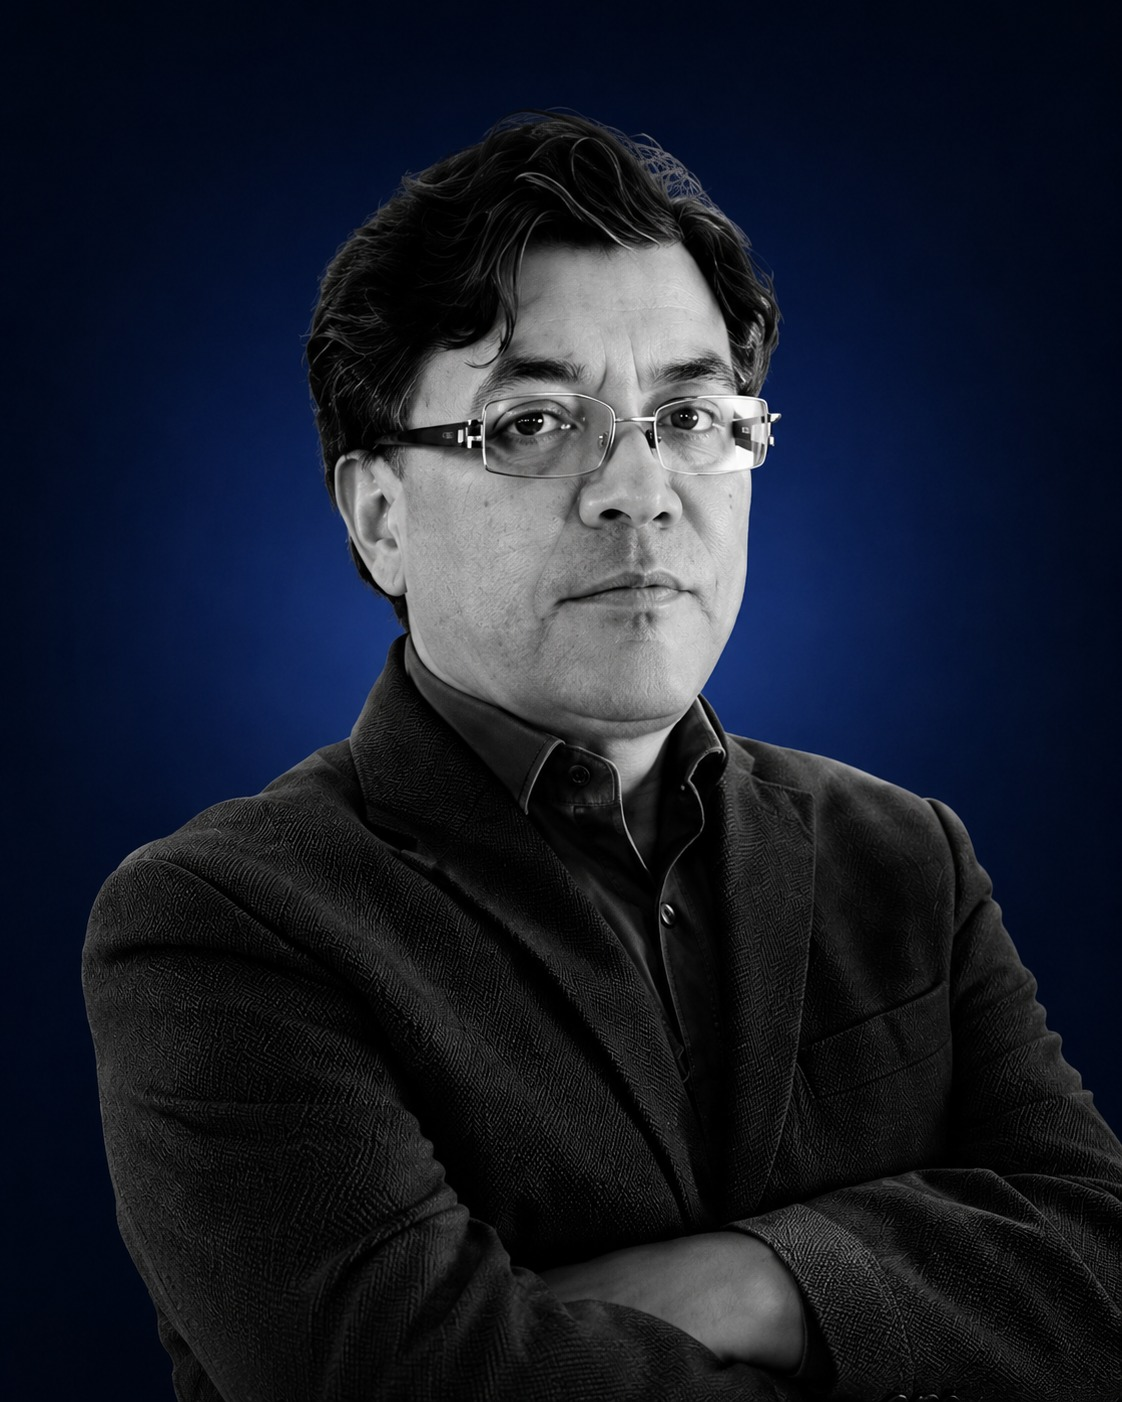
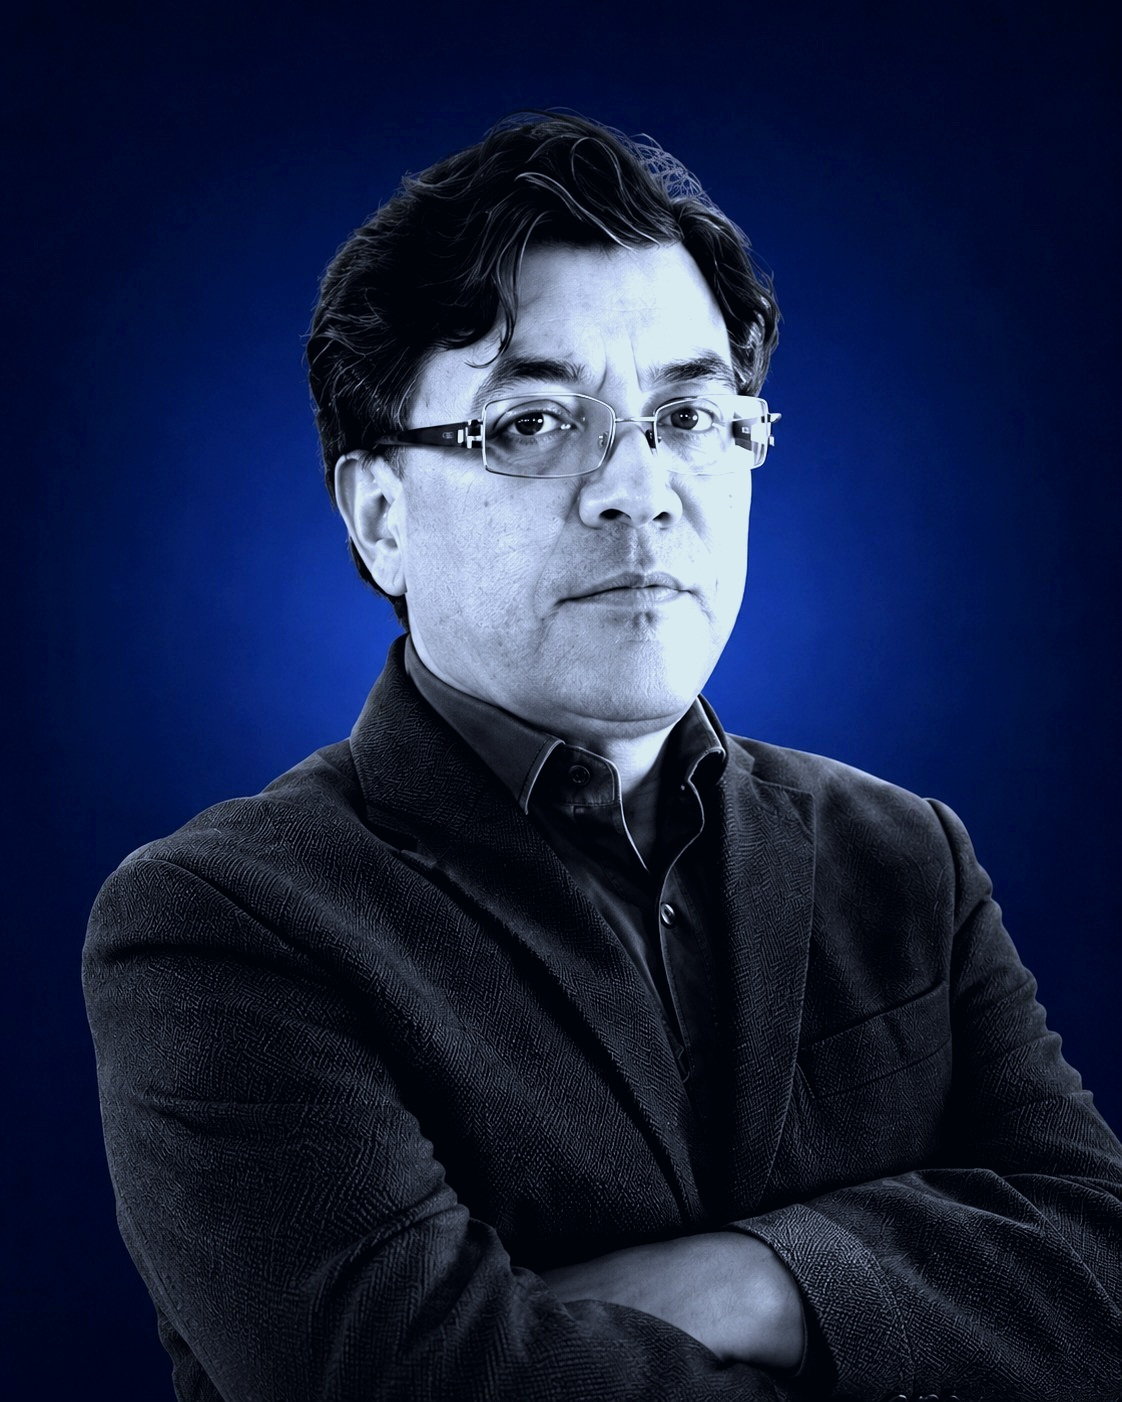
Retoque azul y ajuste compacto en fotos de Nosotros

diff --git a/src/pages/About.css b/src/pages/About.css
@@ -1,5 +1,8 @@
 .about-page .team-grid {
-  gap: 24px;
+  max-width: 1120px;
+  margin-inline: auto;
+  grid-template-columns: repeat(4, minmax(0, 1fr));
+  gap: 18px;
 }
 
 .about-page .team-card {
@@ -9,7 +12,7 @@
   flex-direction: column;
   overflow: hidden;
   border-color: rgba(148, 242, 255, 0.2);
-  border-radius: 16px;
+  border-radius: 14px;
   background:
     radial-gradient(circle at 50% 0%, rgba(148, 242, 255, 0.12), transparent 32%),
     linear-gradient(145deg, rgba(20, 35, 56, 0.92), rgba(7, 17, 31, 0.78));
@@ -18,30 +21,31 @@
 .about-page .team-card .team-portrait {
   display: block;
   width: 100%;
-  aspect-ratio: 4 / 5;
+  aspect-ratio: 4 / 4.75;
   height: auto;
   object-fit: cover;
   object-position: center top;
   border-bottom: 1px solid rgba(148, 242, 255, 0.18);
-  filter: saturate(1.05) contrast(1.04) brightness(1.02);
 }
 
 .about-page .team-card h2,
 .about-page .team-card p {
-  padding-inline: 24px;
+  padding-inline: 18px;
 }
 
 .about-page .team-card h2 {
-  margin: 22px 0 9px;
-  font-size: clamp(1.22rem, 2vw, 1.48rem);
+  margin: 16px 0 7px;
+  font-size: clamp(1.05rem, 1.45vw, 1.24rem);
 }
 
 .about-page .team-card p {
-  margin: 0 0 26px;
+  margin: 0 0 20px;
+  font-size: 0.94rem;
+  line-height: 1.55;
 }
 
 .about-page .team-card:not(:has(.team-portrait)) {
-  min-height: 190px;
+  min-height: 148px;
   justify-content: center;
   padding-block: 6px;
   background:
@@ -50,16 +54,29 @@
 }
 
 .about-page .team-card:not(:has(.team-portrait)) h2 {
-  margin-top: 18px;
+  margin-top: 12px;
 }
 
-@media (max-width: 860px) {
+@media (max-width: 1100px) {
   .about-page .team-grid {
-    gap: 18px;
+    grid-template-columns: repeat(3, minmax(0, 1fr));
+  }
+}
+
+@media (max-width: 760px) {
+  .about-page .team-grid {
+    grid-template-columns: repeat(2, minmax(0, 1fr));
+    gap: 16px;
   }
 
   .about-page .team-card h2,
   .about-page .team-card p {
-    padding-inline: 20px;
+    padding-inline: 16px;
+  }
+}
+
+@media (max-width: 520px) {
+  .about-page .team-grid {
+    grid-template-columns: 1fr;
   }
 }

diff --git a/src/pages/About.jsx b/src/pages/About.jsx
@@ -23,7 +23,7 @@ const teamMembers = [
   ['Felipe de Alba', { es: 'Ciencia de datos, IA, social listening y análisis institucional', en: 'Data science, AI, social listening and institutional analysis' }, '/images/team/felipe-de-alba.jpeg'],
   ['Aeelen Miranda', { es: 'Python, inteligencia artificial y Big Data', en: 'Python, artificial intelligence and Big Data' }, '/images/team/aeelen-miranda.png'],
   ['Winik Ivanovich Morales', { es: 'Python, ciencia de datos e inteligencia artificial', en: 'Python, data science and artificial intelligence' }, '/images/team/winik-ivanovich-morales.png'],
-  ['Josefina Pérez', { es: 'Movilidades, cooperación internacional y seguridad', en: 'Mobilities, international cooperation and security' }],
+  ['Josefina Pérez Espino', { es: 'Movilidades, cooperación internacional y seguridad', en: 'Mobilities, international cooperation and security' }, '/images/team/josefina-perez-espino.png'],
   ['Diana Varela', { es: 'Innovación empresarial e intraemprendimiento', en: 'Business innovation and intrapreneurship' }, '/images/team/diana-varela-londono.png'],
   ['Bryan Guzmán Álvarez', { es: 'Desarrollo full-stack y sistemas escalables', en: 'Full-stack development and scalable systems' }, '/images/team/bryan-guzman-alvarez.png'],
   ['Raymundo Rodríguez Rosas', { es: 'Back-end, software a la medida y bases de datos', en: 'Back-end, custom software and databases' }, '/images/team/raymundo-rodriguez-rosas.png'],
